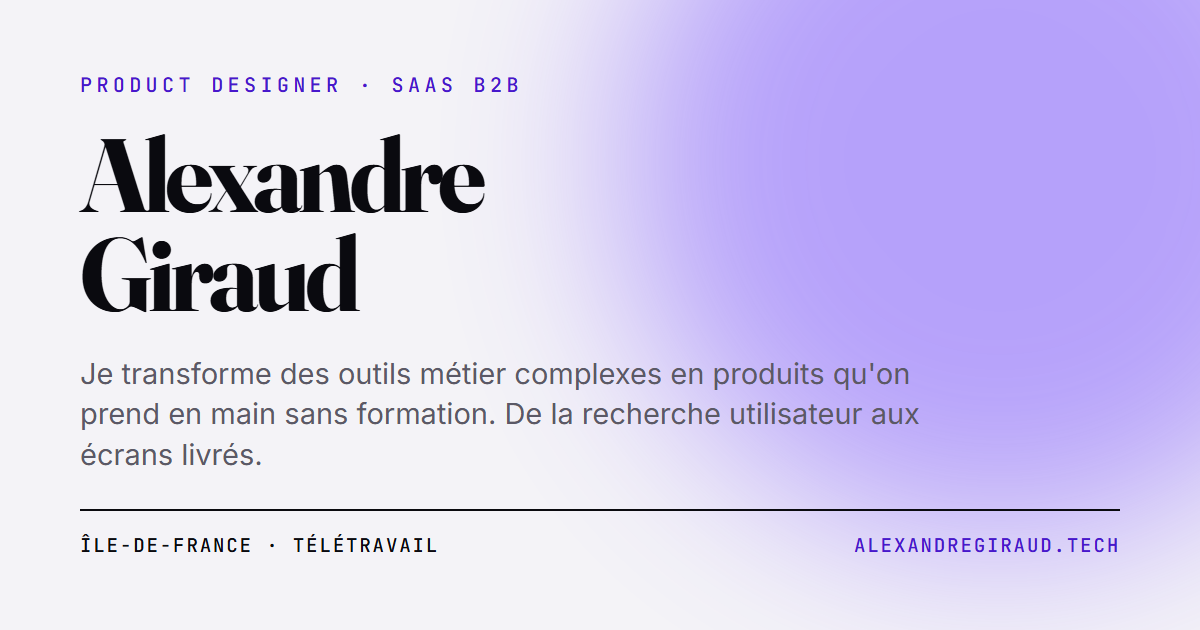
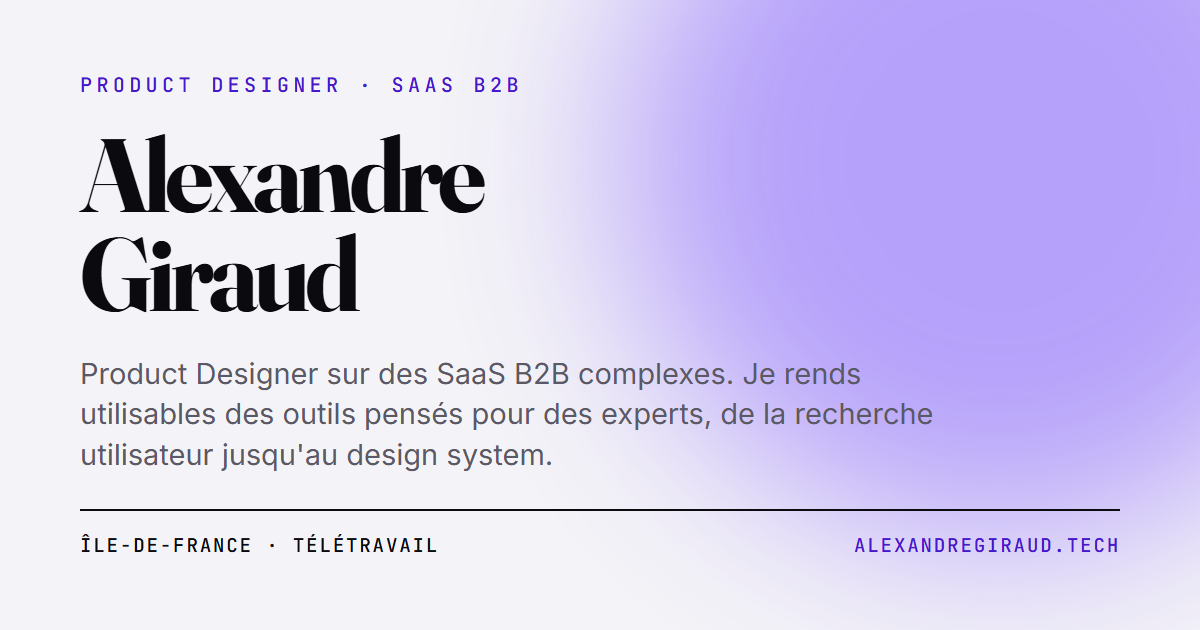
content(web): textes de la page d'accueil, chantier 1 du brief
Textes repris depuis brief-maj-portfolio.md sans reformulation, a
une exception pres demandee par Alexandre : "j'etais le seul
designer" devient "j'etais le designer principal".

- Accroche : "Product Designer sur des SaaS B2B complexes...",
  plus explicite sur le positionnement UX et sur le perimetre, de
  la recherche jusqu'au design system.
- A propos : nouveau chapo, et les trois paragraphes remplaces par
  quatre. La bio ne revendique plus de role de developpement.
- Expertise, carte 05 : "Profil technique" devient "Culture
  technique", et la liste tombe a trois entrees. Next.js, HTML/CSS
  et Material UI faisaient basculer la carte vers un CV de
  developpeur, ce que la bio ne dit plus.

Carte de partage regeneree : elle est rendue depuis profile.ts, et
elle affichait encore l'ancienne accroche. Les balises meta,
Open Graph et Twitter derivent du meme fichier et suivent donc
toutes seules. Verifie dans le HTML servi : plus aucune trace de
l'ancienne accroche.

Changed region(s): [[0.0617, 0.573, 0.7708, 0.754]]

diff --git a/apps/web/src/content/profile.ts b/apps/web/src/content/profile.ts
@@ -36,11 +36,12 @@ export const profile: Profile = {
   role: 'Product Designer · SaaS B2B',
   location: 'Île-de-France · télétravail',
   tagline:
-    "Je transforme des outils métier complexes en produits qu'on prend en main sans formation. De la recherche utilisateur aux écrans livrés.",
+    "Product Designer sur des SaaS B2B complexes. Je rends utilisables des outils pensés pour des experts, de la recherche utilisateur jusqu'au design system.",
   bio: [
-    "Product Designer avec près de 5 ans d'expérience sur des produits SaaS B2B, de la modélisation des workflows jusqu'à la livraison des écrans et des user stories. Recherche utilisateur, conception d'interfaces, design systems : j'interviens sur toute la chaîne.",
-    "Chez SKALES, j'étais responsable du design produit de l'entreprise. J'ai piloté la refonte complète d'une plateforme de gestion de projets utilisée en R&D, en santé et dans l'innovation, et construit le design system devenu le socle de tous ses produits. Depuis juin 2025, je travaille en freelance et sur mes propres projets.",
-    "Mon parcours en informatique (Master Informatique et Design d'Interfaces, Paris-Saclay) change la façon dont je conçois : je sais ce qu'une option coûte à implémenter et ce qu'une modification coûte à reprendre, j'arbitre plus tôt entre l'idéal et le faisable, et je dialogue d'égal à égal avec les équipes de développement.",
+    "Je travaille depuis bientôt cinq ans sur des SaaS B2B, pour des labos de recherche, des structures de santé et des boîtes qui font de l'innovation. Je commence rarement par un écran. J'ai besoin de comprendre le métier d'abord, de voir comment les gens s'en servent, et de repérer les moments où le produit leur complique la journée. Le reste vient après.",
+    "Chez SKALES, j'étais le designer principal. Je suis arrivé en stage pour un audit UX, je suis resté cinq ans, et pendant ces cinq ans tout le design produit est passé par moi. J'ai mené la refonte de la plateforme, du premier entretien jusqu'aux écrans livrés. J'ai aussi monté le design system qui sert aujourd'hui de base à tous leurs produits, avec son theming par client et l'accessibilité réglée à cet endroit plutôt que dans chaque écran.",
+    "Ma formation est en informatique, un master mi-dev mi-design à Paris-Saclay, et je n'ai jamais lâché le sujet. Concrètement, ça joue surtout sur le moment où je tranche. Je sais à peu près ce qu'une fonctionnalité va coûter à construire, et ce qu'une reprise coûte quand on change d'avis trois sprints plus tard. Alors je pose la question quand elle sert encore à quelque chose.",
+    "Depuis juin 2025 je suis en freelance. J'ai accompagné le lancement d'une marketplace sur deux phases, la seconde parce que la première s'était bien passée. Le reste du temps, je teste les outils d'IA sur de vrais sujets de conception, pour voir ce qu'ils font gagner et ce qu'ils font perdre. Je garde aussi une habitude prise chez SKALES. J'écris ce que je cherche et pourquoi je tranche, parce qu'une méthode qui repose sur une seule personne ne tient pas longtemps.",
   ],
   email: 'alexandre.giraud1995@gmail.com',
   socials: [{ label: 'LinkedIn', href: 'https://www.linkedin.com/in/alexandre-giraud-072624142' }],

diff --git a/apps/web/src/content/expertise.ts b/apps/web/src/content/expertise.ts
@@ -58,17 +58,10 @@ export const expertiseAreas: ExpertiseArea[] = [
     ],
   },
   {
-    title: 'Profil technique',
+    title: 'Culture technique',
     summary:
       "Je conçois en sachant ce qu'une option coûte à implémenter et ce qu'une modification coûte à reprendre.",
-    skills: [
-      'TypeScript',
-      'React',
-      'Next.js',
-      'HTML / CSS',
-      'Material UI',
-      'Handoff et spécifications techniques',
-    ],
+    skills: ['TypeScript', 'React', 'Handoff et spécifications techniques'],
   },
   {
     title: 'Outils',

diff --git a/apps/web/src/components/sections/about.tsx b/apps/web/src/components/sections/about.tsx
@@ -7,7 +7,7 @@ export function About() {
       id="about"
       eyebrow="Profil"
       title="À propos"
-      lead="Product Designer d'abord, avec un bagage technique qui change la façon dont je conçois."
+      lead="Designer produit, plutôt côté UX. Avec assez de bagage technique pour ne pas demander l'impossible."
     >
       <div className="reveal-group max-w-3xl">
         {profile.bio.map((paragraph, index) => (
